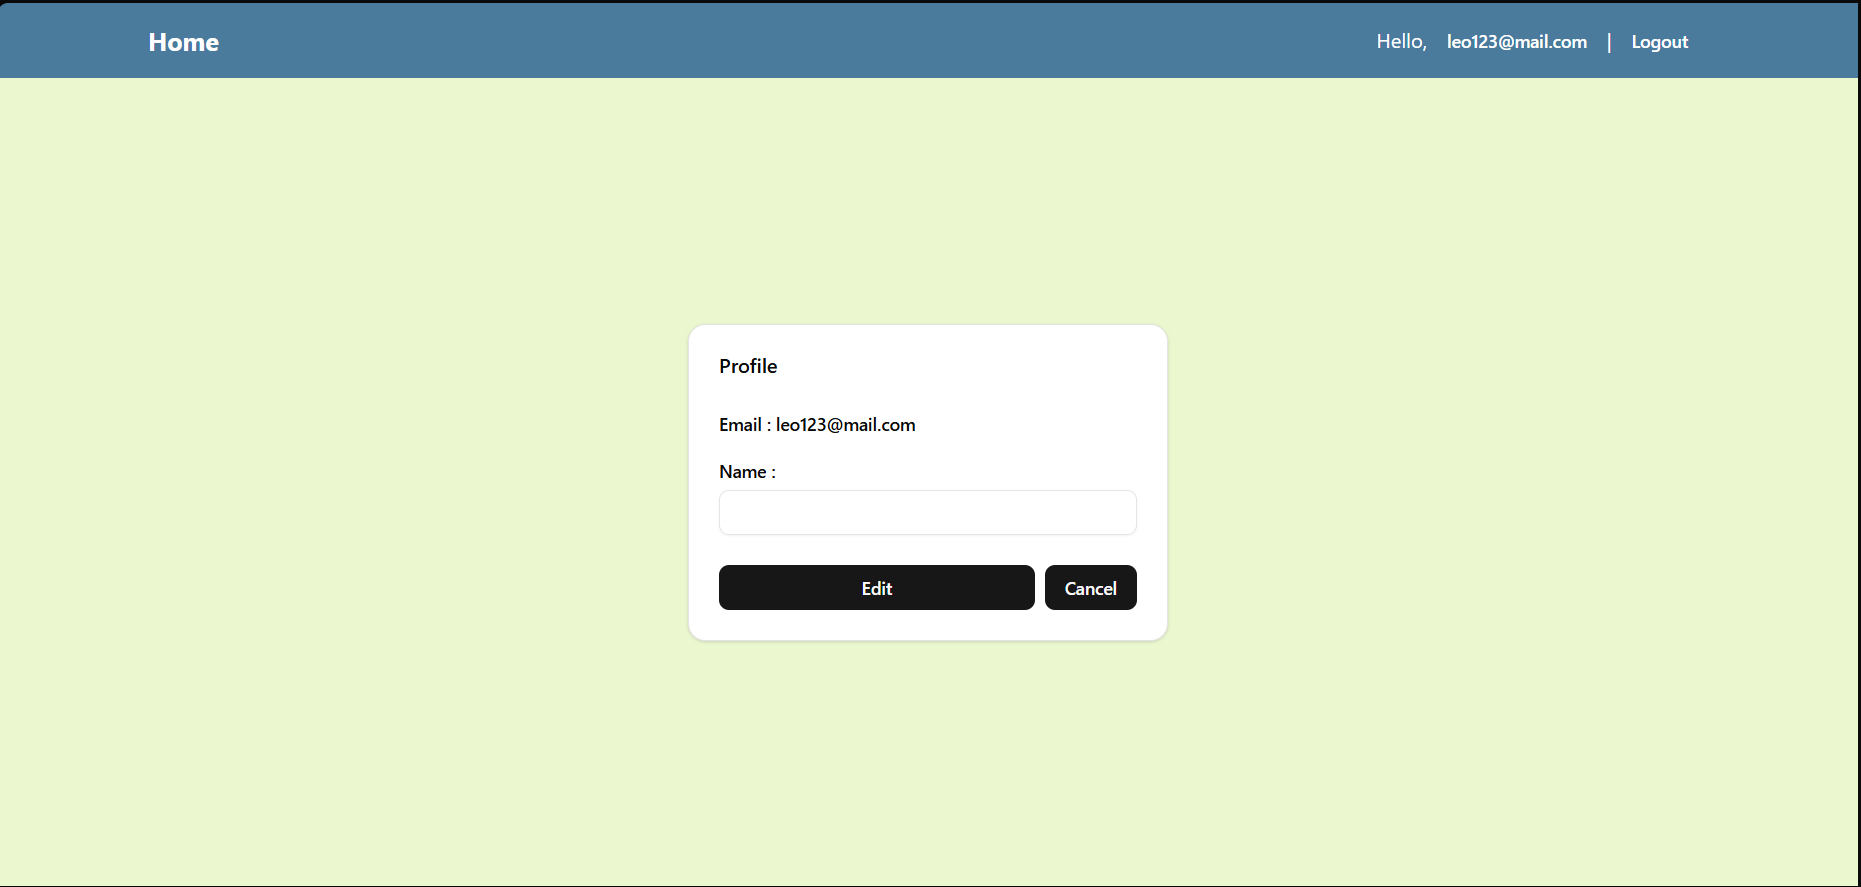
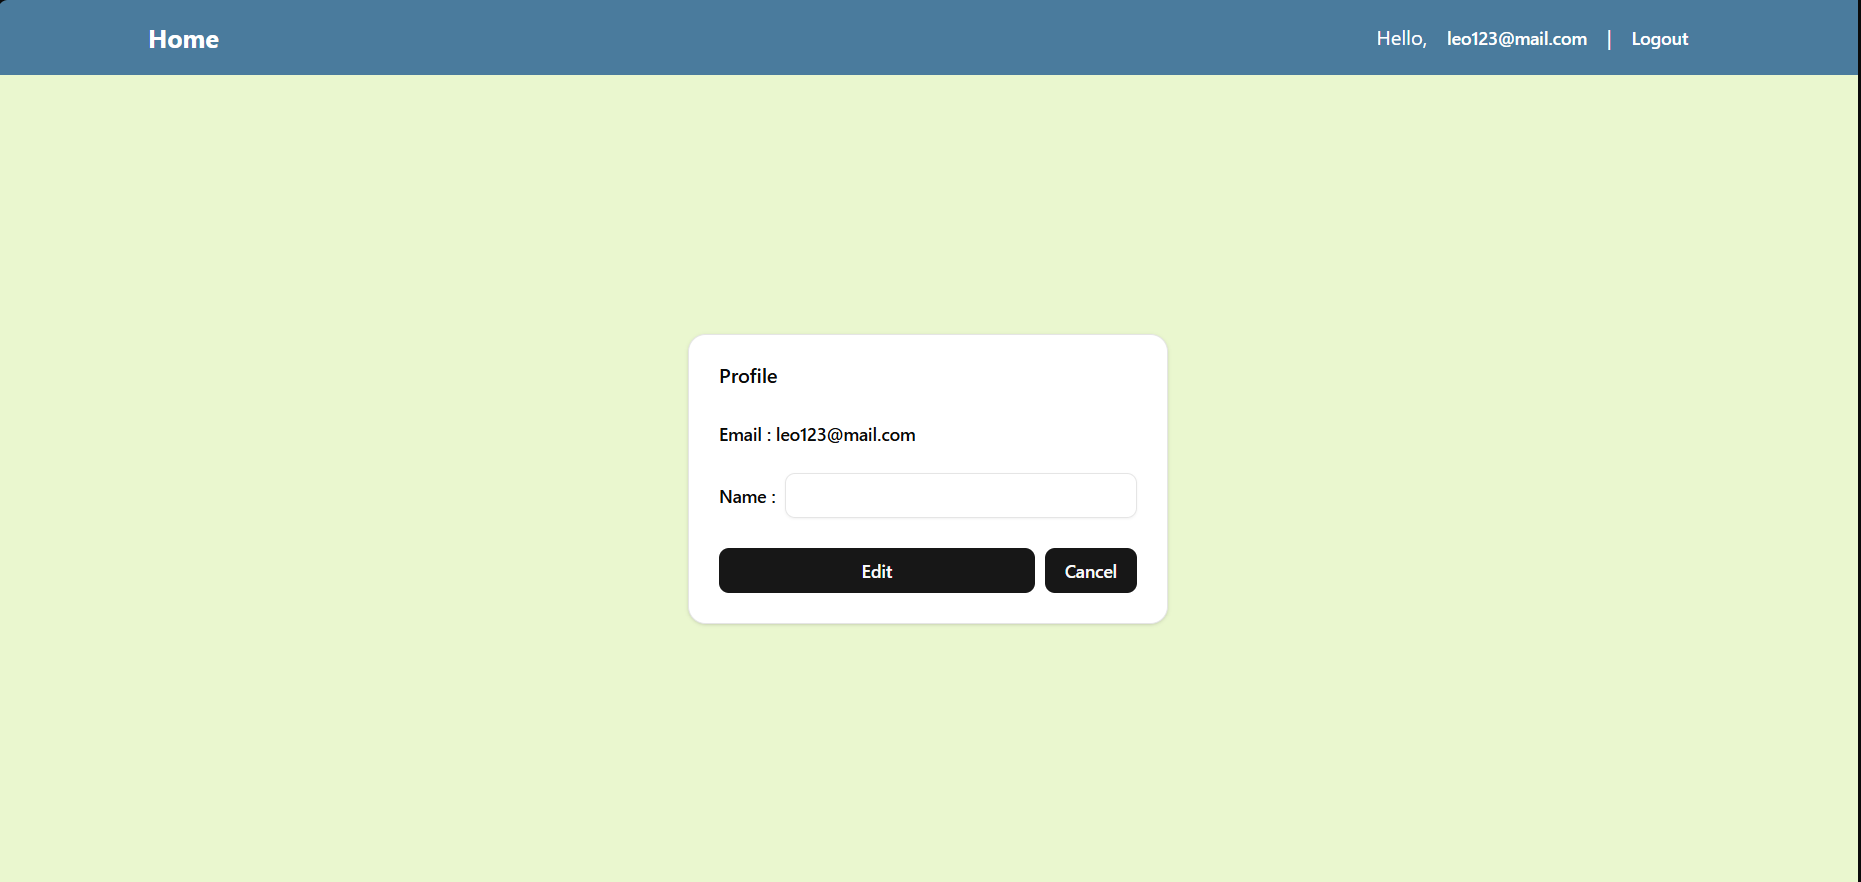
Feat : Penambahan toastify dan Fix : Penambahan header pada delete post

diff --git a/Frontend/src/route/profile.jsx b/Frontend/src/route/profile.jsx
@@ -9,10 +9,40 @@ import {
 import { Label } from "@/components/ui/label";
 import axios from "axios";
 import { useEffect, useState } from "react";
-import { Link } from "react-router";
+import { Link, useNavigate } from "react-router";
+import React from "react";
+import { Bounce, ToastContainer, toast } from "react-toastify";
 
 export function Profile() {
+  const navigate = useNavigate();
   const [profile, setProfile] = useState({ email: "", name: "" });
+
+  const handleDelete = async () => {
+    const token = localStorage.getItem("access_token");
+    try {
+      await axios.delete("http://localhost:3000/api/user/delete", {
+        headers: { Authorization: `Bearer ${token}` },
+      });
+
+      localStorage.removeItem("access_token");
+
+      toast.error("Account Deleted Successfuly", {
+        position: "top-center",
+        autoClose: 5000,
+        hideProgressBar: false,
+        closeOnClick: true,
+        pauseOnHover: true,
+        draggable: true,
+        progress: undefined,
+        theme: "light",
+        transition: Bounce,
+      });
+
+      navigate("/");
+    } catch (error) {
+      console.error(error);
+    }
+  };
 
   useEffect(() => {
     const getProfile = async () => {
@@ -40,6 +70,19 @@ export function Profile() {
 
   return (
     <div className="min-h-[calc(100vh-60px)] flex items-center justify-center bg-[#EAF7CF]">
+      <ToastContainer
+        position="top-center"
+        autoClose={5000}
+        hideProgressBar={false}
+        newestOnTop={false}
+        closeOnClick
+        rtl={false}
+        pauseOnFocusLoss
+        draggable
+        pauseOnHover
+        theme="light"
+        transition={Bounce}
+      />
       <Card className="w-full max-w-sm">
         <CardHeader>
           <CardTitle>Profile</CardTitle>
@@ -57,9 +100,16 @@ export function Profile() {
           </form>
         </CardContent>
         <CardFooter className="flex-col gap-2">
-          <Link to="/profile/edit">
+          <Link to="/profile/edit" className="w-full">
             <Button className="w-full">Edit</Button>
           </Link>
+          <Button
+            variant="destructive"
+            className="w-full mt-2"
+            onClick={handleDelete}
+          >
+            Delete Profile
+          </Button>
         </CardFooter>
       </Card>
     </div>

diff --git a/Frontend/src/components/ui/alert.jsx b/Frontend/src/components/ui/alert.jsx
@@ -1,0 +1,63 @@
+import * as React from "react"
+import { cva } from "class-variance-authority";
+
+import { cn } from "@/lib/utils"
+
+const alertVariants = cva(
+  "relative w-full rounded-lg border px-4 py-3 text-sm grid has-[>svg]:grid-cols-[calc(var(--spacing)*4)_1fr] grid-cols-[0_1fr] has-[>svg]:gap-x-3 gap-y-0.5 items-start [&>svg]:size-4 [&>svg]:translate-y-0.5 [&>svg]:text-current",
+  {
+    variants: {
+      variant: {
+        default: "bg-card text-card-foreground",
+        destructive:
+          "text-destructive bg-card [&>svg]:text-current *:data-[slot=alert-description]:text-destructive/90",
+      },
+    },
+    defaultVariants: {
+      variant: "default",
+    },
+  }
+)
+
+function Alert({
+  className,
+  variant,
+  ...props
+}) {
+  return (
+    <div
+      data-slot="alert"
+      role="alert"
+      className={cn(alertVariants({ variant }), className)}
+      {...props} />
+  );
+}
+
+function AlertTitle({
+  className,
+  ...props
+}) {
+  return (
+    <div
+      data-slot="alert-title"
+      className={cn("col-start-2 line-clamp-1 min-h-4 font-medium tracking-tight", className)}
+      {...props} />
+  );
+}
+
+function AlertDescription({
+  className,
+  ...props
+}) {
+  return (
+    <div
+      data-slot="alert-description"
+      className={cn(
+        "text-muted-foreground col-start-2 grid justify-items-start gap-1 text-sm [&_p]:leading-relaxed",
+        className
+      )}
+      {...props} />
+  );
+}
+
+export { Alert, AlertTitle, AlertDescription }

diff --git a/Frontend/src/route/editProfile.jsx b/Frontend/src/route/editProfile.jsx
@@ -78,7 +78,7 @@ export function EditProfile() {
               <div className="grid gap-2">
                 <Label>Email : {profile.email}</Label>
               </div>
-              <div className="grid gap-2">
+              <div className="flex items-center gap-2">
                 <Label htmlFor="name">Name :</Label>
                 <Input
                   id="name"
@@ -86,6 +86,7 @@ export function EditProfile() {
                   required
                   value={profile.name}
                   onChange={handleChange}
+                  className="flex-1"
                 />
               </div>
             </div>

diff --git a/Frontend/src/route/home.jsx b/Frontend/src/route/home.jsx
@@ -42,8 +42,11 @@ export function Home() {
   };
 
   const handleDelete = async (id) => {
+    const token = localStorage.getItem("access_token");
     try {
-      await axios.delete(`http://localhost:3000/api/post/${id}`);
+      await axios.delete(`http://localhost:3000/api/post/${id}`, {
+        headers: { Authorization: `Bearer ${token}` },
+      });
 
       getData();
     } catch (error) {

diff --git a/Backend/src/user/user.service.ts b/Backend/src/user/user.service.ts
@@ -25,7 +25,6 @@ export class UserService {
 
     if (!user) {
       throw new NotFoundException('User not found');
-      // throwNotFound('User not found');
     }
 
     return user;
@@ -37,7 +36,6 @@ export class UserService {
 
     if (!user) {
       throw new NotFoundException('User not found');
-      // throwNotFound('User not found');
     }
 
     return user;

diff --git a/Frontend/src/route/public.jsx b/Frontend/src/route/public.jsx
@@ -30,11 +30,9 @@ export function Public() {
             content = content.substring(0, 10) + "...";
 
             const newPost = { content, ...alteredPost };
-            console.log(newPost);
 
             return newPost;
           } else {
-            console.log(post);
             return post;
           }
         });
